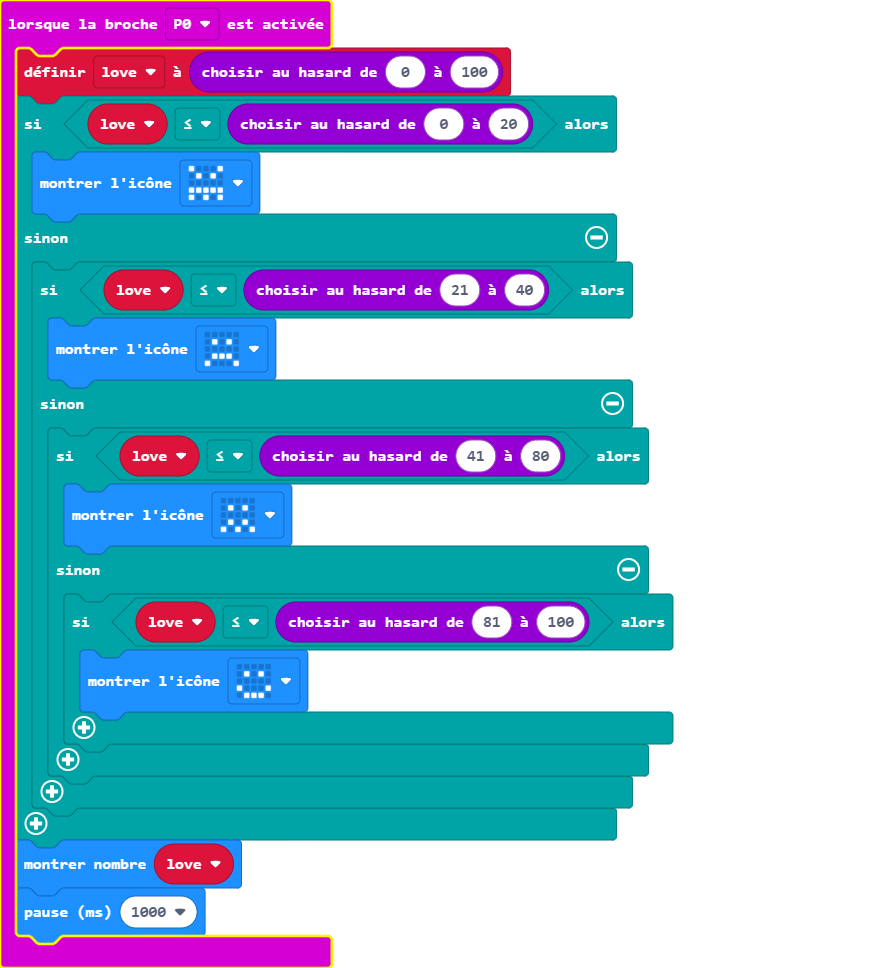
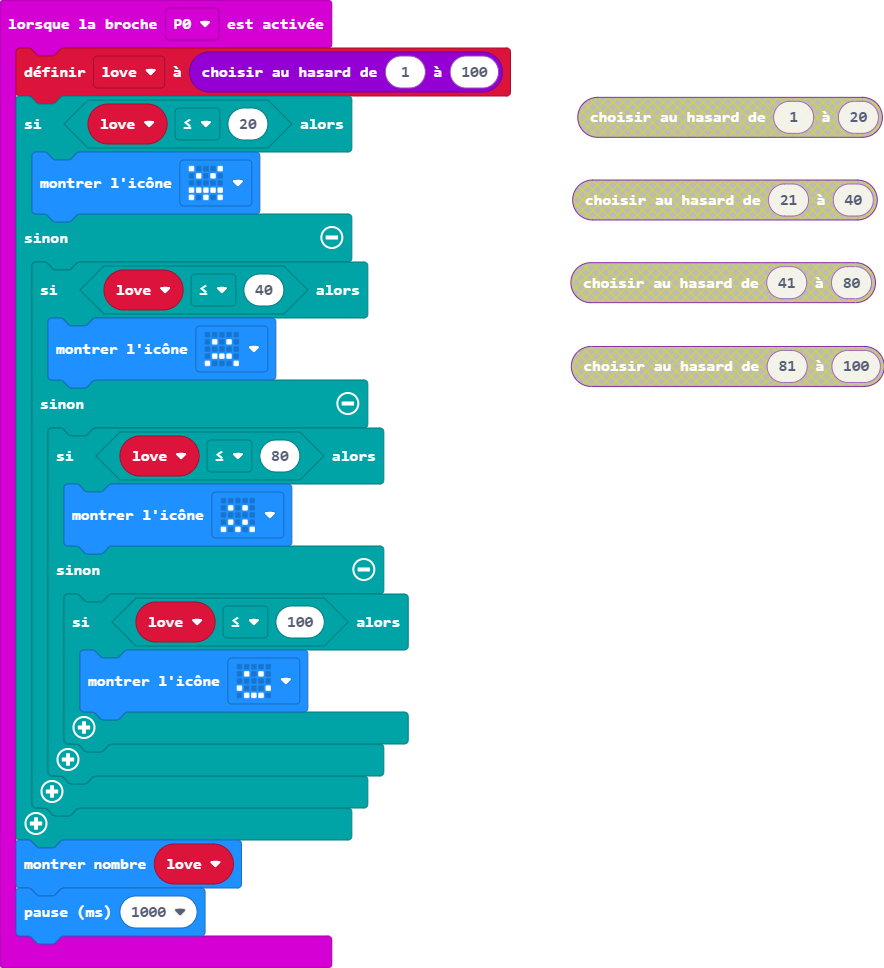
Mise à jour main.blocks, main.ts

diff --git a/main.ts b/main.ts
@@ -1,16 +1,16 @@
 let love = 0
 input.onPinPressed(TouchPin.P0, function () {
-    love = randint(0, 100)
-    if (love <= randint(0, 20)) {
+    love = randint(1, 100)
+    if (love <= 20) {
         basic.showIcon(IconNames.Angry)
     } else {
-        if (love <= randint(21, 40)) {
+        if (love <= 40) {
             basic.showIcon(IconNames.Sad)
         } else {
-            if (love <= randint(41, 80)) {
+            if (love <= 80) {
                 basic.showIcon(IconNames.Confused)
             } else {
-                if (love <= randint(81, 100)) {
+                if (love <= 100) {
                     basic.showIcon(IconNames.Happy)
                 }
             }
